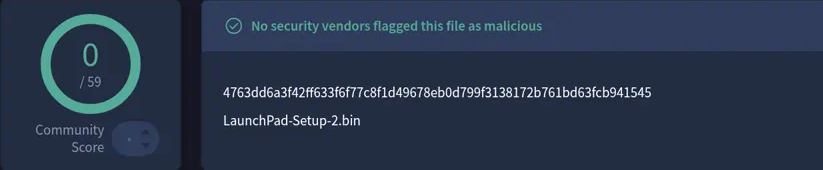
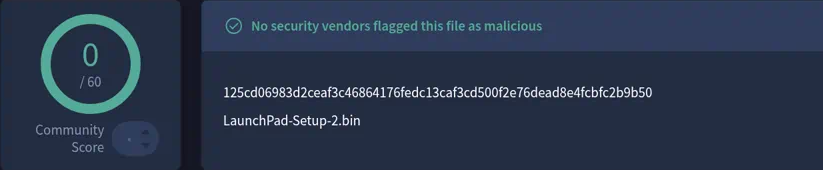
LaunchPad 1.0.2: fix agent choice on compressed runtime images, rebuilt installer, updated README and VirusTotal reports
Known: 2 pre-existing test failures (FenceTests installer flag, AvaloniaMigrationTests setup), fix in 1.0.3

Changed region(s): [[0.2734, 0.5, 0.7898, 0.5882], [0.0911, 0.4706, 0.1215, 0.5]]

diff --git a/tests/LaunchPad.Tests/RuntimeImageTests.cs b/tests/LaunchPad.Tests/RuntimeImageTests.cs
@@ -1,5 +1,7 @@
 using System.Security.Cryptography;
 using System.Text.Json;
+using System.IO.Compression;
+using System.Text;
 using LaunchPad.Services.Fence;
 using Xunit;
 
@@ -7,6 +9,45 @@ namespace LaunchPad.Tests;
 
 public sealed class RuntimeImageTests
 {
+    [Theory]
+    [InlineData(AgentChoice.Codex)]
+    [InlineData(AgentChoice.Claude)]
+    [InlineData(AgentChoice.Custom)]
+    public void DeclaredAgentChoiceAllowsAgentsWithoutPlaintextImageMarkers(string agent)
+    {
+        using var fixture = new Fixture();
+        var selected = fixture.CompressedMarkers([AgentChoice.Capability]);
+        Assert.False(ConfigHeal.ImageHasText(selected.ImagePath, AgentChoice.Marker));
+        RuntimeImages.Verify(fixture.Root, selected);
+        Assert.True(AgentChoice.RuntimeSupports(new(agent, null, null), selected.ImagePath, selected.Manifest!.Capabilities));
+        Assert.False(ConfigHeal.ImageHasConfigFix(selected.ImagePath, selected.Manifest.Capabilities));
+    }
+
+    [Fact]
+    public void ConfigRecoveryUsesItsOwnCapabilityOnCompressedPayloads()
+    {
+        using var fixture = new Fixture();
+        var selected = fixture.CompressedMarkers([ConfigHeal.Capability]);
+        Assert.False(ConfigHeal.ImageHasConfigFix(selected.ImagePath));
+        Assert.True(ConfigHeal.ImageHasConfigFix(selected.ImagePath, selected.Manifest!.Capabilities));
+        Assert.False(AgentChoice.RuntimeSupports(new(AgentChoice.Codex, null, null), selected.ImagePath, selected.Manifest.Capabilities));
+    }
+
+    [Theory]
+    [InlineData(AgentChoice.Codex)]
+    [InlineData(AgentChoice.Claude)]
+    [InlineData(AgentChoice.Custom)]
+    public void LegacyMarkersRemainAFallbackWithoutDeclaringCapabilities(string agent)
+    {
+        using var fixture = new Fixture();
+        var selected = RuntimeImages.Read(fixture.Root);
+        Assert.False(AgentChoice.RuntimeSupports(new(agent, null, null), selected.ImagePath, []));
+        Assert.True(AgentChoice.RuntimeSupports(AgentLaunch.Grok, selected.ImagePath, []));
+        File.WriteAllText(selected.ImagePath, AgentChoice.Marker + "\n" + ConfigHeal.Marker);
+        Assert.True(AgentChoice.RuntimeSupports(new(agent, null, null), selected.ImagePath, []));
+        Assert.True(ConfigHeal.ImageHasConfigFix(selected.ImagePath, []));
+    }
+
     [Fact]
     public void AVersionedImageKeepsTheOriginalAndVerifiesAllBackingIdentities()
     {
@@ -96,6 +137,15 @@ public sealed class RuntimeImageTests
         }
         public void Save(RuntimeImageManifest manifest) => File.WriteAllText(Path.Combine(Images, RuntimeImages.ManifestName),
             JsonSerializer.Serialize(manifest, new JsonSerializerOptions { PropertyNamingPolicy = JsonNamingPolicy.CamelCase }));
+        public RuntimeImageSelection CompressedMarkers(IReadOnlyList<string> capabilities)
+        {
+            var path = Path.Combine(Images, Manifest.Image.File);
+            using (var output = File.Create(path))
+            using (var compressed = new ZLibStream(output, CompressionLevel.SmallestSize))
+                compressed.Write(Encoding.ASCII.GetBytes(AgentChoice.Marker + "\n" + ConfigHeal.Marker));
+            Save(Manifest with { Image = Manifest.Image with { Sha256 = Convert.ToHexString(SHA256.HashData(File.ReadAllBytes(path))) }, Capabilities = capabilities });
+            return RuntimeImages.Read(Root);
+        }
         public void Dispose() => Directory.Delete(Root, recursive: true);
     }
 }

diff --git a/src/LaunchPad/Services/Fence/PublicRuntime.cs b/src/LaunchPad/Services/Fence/PublicRuntime.cs
@@ -4,7 +4,7 @@ public sealed class PublicRuntime
 {
     public const string BaseName = "debian-12-nocloud-amd64-20260601-2496.qcow2";
 
-    private PublicRuntime(string root, string qemuDirectory, string qemuExe, string imgExe, string keptImage, string sessions, string firmwareDir, string? version, string maintenanceManifestName, VerifiedDirectBoot? directBoot)
+    private PublicRuntime(string root, string qemuDirectory, string qemuExe, string imgExe, string keptImage, string sessions, string firmwareDir, string? version, string maintenanceManifestName, VerifiedDirectBoot? directBoot, IReadOnlyList<string> capabilities)
     {
         Root = root;
         DirectBoot = directBoot;
@@ -16,6 +16,7 @@ public sealed class PublicRuntime
         Sessions = sessions;
         FirmwareDir = firmwareDir;
         Version = version;
+        Capabilities = Array.AsReadOnly(capabilities.ToArray());
     }
 
     public VerifiedDirectBoot? DirectBoot { get; }
@@ -28,6 +29,7 @@ public sealed class PublicRuntime
     public string Sessions { get; }
     public string FirmwareDir { get; }
     public string? Version { get; }
+    public IReadOnlyList<string> Capabilities { get; }
 
     public static PublicRuntime Ensure(SetupLog log)
     {
@@ -87,6 +89,6 @@ public sealed class PublicRuntime
         var sessions = Path.Combine(root, "sessions");
         Directory.CreateDirectory(sessions);
         return new PublicRuntime(root, launchDir, qemuExe, imgExe, kept, sessions, Path.GetFullPath(firmwareDir), selection.Manifest?.Version,
-            selection.Manifest?.MaintenanceManifest ?? "maintenance.json", boot);
+            selection.Manifest?.MaintenanceManifest ?? "maintenance.json", boot, selection.Manifest?.Capabilities ?? []);
     }
 }

diff --git a/src/LaunchPad/Services/Fence/FenceSession.cs b/src/LaunchPad/Services/Fence/FenceSession.cs
@@ -342,7 +342,7 @@ public sealed class FenceSession : IFencedProjectSession
             }
 
             // The payload starts as BuildLaunchTest. A failed logon does not start it as the signed-in user.
-            if (!agent.IsGrok && !ConfigHeal.ImageHasText(backing, AgentChoice.Marker))
+            if (!AgentChoice.RuntimeSupports(agent, backing, runtime.Capabilities))
                 throw new InvalidOperationException("This machine does not have that agent yet.");
             cancellationToken.ThrowIfCancellationRequested();
             if (leaveRunning) InitialImport.Begin(sessionDir);
@@ -374,9 +374,9 @@ public sealed class FenceSession : IFencedProjectSession
                         ProjectIdentity.ColorHex(launchSettings, liveFull)).ConfigureAwait(false);
                     var oldAgent = !agent.IsGrok
                         && await AgentScriptMissing(serialLog, cancellationToken).ConfigureAwait(false)
-                        && ConfigHeal.ImageHasText(backing, AgentChoice.Marker);
+                        && AgentChoice.RuntimeSupports(agent, backing, runtime.Capabilities);
                     if ((await ConfigStayedBroken(serialLog, cancellationToken).ConfigureAwait(false)
-                                && ConfigHeal.ImageHasConfigFix(backing))
+                                && ConfigHeal.ImageHasConfigFix(backing, runtime.Capabilities))
                             || oldAgent)
                     {
                         _log.Write("Fenced session requires recovery; preserving its VM disk and saved state.");

diff --git a/scripts/build-release-image.py b/scripts/build-release-image.py
@@ -152,6 +152,7 @@ def main():
     def row(path):return {'file':path.name,'sha256':sha256_file(path)}
     for path in (kernel,initrd):shutil.copyfile(path,out/path.name)
     m=dict(seed,version=args.version,image=row(output),dependencies=[],maintenanceManifest='maintenance.json')
+    m['capabilities'] = sorted(set(m.get('capabilities', [])) | {'agent-choice', 'config-home-builder'})
     kit=dict(oldkit,version=args.version,kernel=row(out/kernel.name),initrd=row(out/initrd.name),payload=row(out/kitname),guestScriptSha256=hashlib.sha256(maintenance['launchpad-session']).hexdigest())
     (out/'runtime.json').write_text(json.dumps(m,indent=2)+'\n');(out/'maintenance.json').write_text(json.dumps(kit,indent=2)+'\n')
     for item in original:

diff --git a/src/LaunchPad/Services/Fence/ConfigHeal.cs b/src/LaunchPad/Services/Fence/ConfigHeal.cs
@@ -5,6 +5,7 @@ namespace LaunchPad.Services.Fence;
 public static class ConfigHeal
 {
     public const string Marker = "GROK-HOME builder";
+    public const string Capability = "config-home-builder";
     public const int SearchBytes = 1024 * 1024;
 
     public static bool LogShowsBrokenConfig(string? log)
@@ -19,6 +20,9 @@ public static class ConfigHeal
     }
 
     public static bool ImageHasConfigFix(string imagePath) => ImageHasText(imagePath, Marker);
+
+    public static bool ImageHasConfigFix(string imagePath, IReadOnlyList<string> capabilities) =>
+        capabilities.Contains(Capability, StringComparer.Ordinal) || ImageHasConfigFix(imagePath);
 
     public static bool ImageHasText(string imagePath, string text)
     {

diff --git a/src/LaunchPad/Services/Fence/AgentChoice.cs b/src/LaunchPad/Services/Fence/AgentChoice.cs
@@ -16,6 +16,11 @@ public static class AgentChoice
     public const string Claude = "claude";
     public const string Custom = "custom";
     public const string Marker = "AGENT-PICK";
+    public const string Capability = "agent-choice";
+
+    public static bool RuntimeSupports(AgentLaunch agent, string imagePath, IReadOnlyList<string> capabilities) =>
+        agent.IsGrok || capabilities.Contains(Capability, StringComparer.Ordinal)
+        || ConfigHeal.ImageHasText(imagePath, Marker);
 
     /// <summary>Single list for UI + guest id mapping. Codex/Claude enabled after 2026-10-05 builder image bake.</summary>
     public static IReadOnlyList<AgentOption> Options { get; } =

diff --git a/README.md b/README.md
@@ -58,11 +58,11 @@ Startup took about 6 seconds in local backend tests. In total, 7 of 92 features 
 - **Copy-back verification** is built, but only tested on sample files.
 - **AMSI scan on the way back:** returned files go through the Windows AMSI scan, and copy-back refuses to apply if the scan is unavailable or rejects content. This is not a guarantee that files are malware-free.
 - **Agent support:** Grok Build, Codex CLI, and Claude Code are partly tested. Codex has an open sandbox conflict.
+- **The installer:** installed and run on the developer's PC, and Grok Build, Codex CLI, and Claude Code all open from the installed app. It hasn't been tried on a clean PC yet.
 
 ## Untested
 
 - The real GUI, including all 14 UI features.
-- The installer on a clean PC.
 - **Snapshot push:** before returned files update your Windows project folder, LaunchPad can push a snapshot commit to a git remote you choose. It backs up the host project folder only, not the VM session disk.
 - **The pager:** notifications are built, but phone delivery isn't proven.
 
@@ -129,7 +129,7 @@ Setup doesn't handle these:
 - **Restart.** If setup turned on the hypervisor, restart Windows before your first VM project.
 - **Native agents.** Native mode uses Grok Build, Codex CLI, or Claude Code already installed on Windows. Install and sign in to them yourself.
 
-### Did it work? (untested)
+### Did it work?
 
 **It worked if LaunchPad opens to the home screen with the rocket and "Open a project and its session shows up here."**
 
@@ -142,31 +142,31 @@ Setup doesn't handle these:
 
 Click a card to open the full report. Each hash matches `LaunchPad-Full-SHA256.txt`.
 
-### `LaunchPad-Setup.exe`: 2/71
+### `LaunchPad-Setup.exe`: 2/65
 
-[![VirusTotal report for LaunchPad-Setup.exe](docs/virustotal/vt-setup-exe.png)](https://www.virustotal.com/gui/file/67178b3814cb69aeead16e6df3138dd314571c5d873e2c4cbbccb5d14592a1da)
+[![VirusTotal report for LaunchPad-Setup.exe](docs/virustotal/vt-setup-exe.png)](https://www.virustotal.com/gui/file/316cabf57731710773184c7a76372968383d159737167b2173ca3201f8e55284)
 
[2 lines of base64/hex data omitted]
 
-Two generic flags, not named malware: Skyhigh (BehavesLike.Win32.ObfuscatedPoly) and Trapmine (Suspicious.low.ml.score). Heuristic and machine-learning flags like these are common for unsigned Inno Setup installers.
+Two generic flags, not named malware: Arctic Wolf (Unsafe) and Trapmine (Suspicious.low.ml.score). Heuristic and machine-learning flags like these are common for unsigned Inno Setup installers.
 
-### `LaunchPad-Setup-1.bin`: 0/60 (clean)
+### `LaunchPad-Setup-1.bin`: 0/59 (clean)
 
-[![VirusTotal report for LaunchPad-Setup-1.bin](docs/virustotal/vt-setup-1-bin.png)](https://www.virustotal.com/gui/file/176492ce069975aeca845533e12923cb43f06426fcfae1a6ca6c8d13b3be1be2)
+[![VirusTotal report for LaunchPad-Setup-1.bin](docs/virustotal/vt-setup-1-bin.png)](https://www.virustotal.com/gui/file/5360038941b10141cd02a38b0b4ae5757986307e22312bbfffa6c16e88758fb9)
 
[2 lines of base64/hex data omitted]
 
-### `LaunchPad-Setup-2.bin`: 0/59 (clean)
+### `LaunchPad-Setup-2.bin`: 0/60 (clean)
 
-[![VirusTotal report for LaunchPad-Setup-2.bin](docs/virustotal/vt-setup-2-bin.png)](https://www.virustotal.com/gui/file/4763dd6a3f42ff633f6f77c8f1d49678eb0d799f3138172b761bd63fcb941545)
+[![VirusTotal report for LaunchPad-Setup-2.bin](docs/virustotal/vt-setup-2-bin.png)](https://www.virustotal.com/gui/file/125cd06983d2ceaf3c46864176fedc13caf3cd500f2e76dead8e4fcbfc2b9b50)
 
[2 lines of base64/hex data omitted]
 
 ### `LaunchPad-Setup-3.bin`: 0/61 (clean)
 
-[![VirusTotal report for LaunchPad-Setup-3.bin](docs/virustotal/vt-setup-3-bin.png)](https://www.virustotal.com/gui/file/b257328b30deef9d7f5ca92e3a3e1fec2f80f91fee77994ae3a261fa058c7090)
+[![VirusTotal report for LaunchPad-Setup-3.bin](docs/virustotal/vt-setup-3-bin.png)](https://www.virustotal.com/gui/file/33ad5252d664642e9ace77eb6e6700552df684a21012aaf9e8cf5bbbcbdc35b6)
 
[2 lines of base64/hex data omitted]
 
 ### `LaunchPad-1.0.2-sources.zip`: 0/44 (clean)
 
@@ -190,7 +190,7 @@ The patched QEMU runtime, guest images, and session disks are not in this reposi
 
 ## Credit
 
-Built by Casey Nielsen · X [@BigBojangles_](https://x.com/BigBojangles_) · [github.com/BigBojangles](https://github.com/BigBojangles)
+Built by Casey Nielsen · [CaseyNielsen.tech](https://caseynielsen.tech) · X [@BigBojangles_](https://x.com/BigBojangles_) · [github.com/BigBojangles](https://github.com/BigBojangles)
 
 ## License
 
